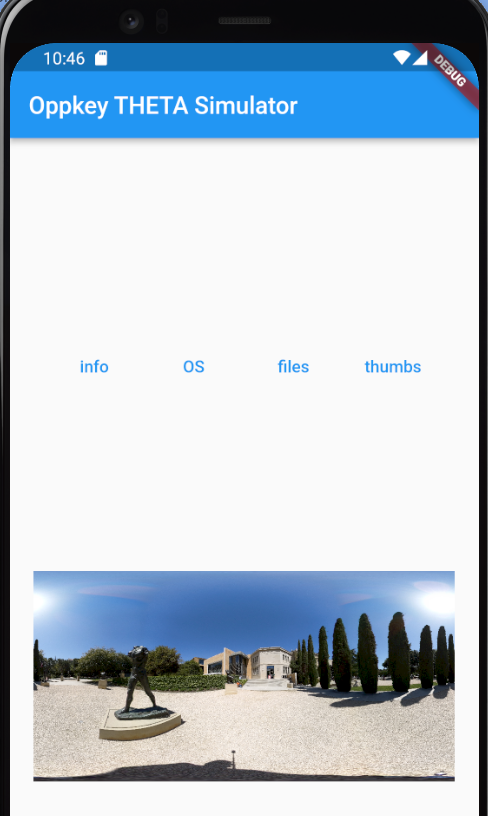
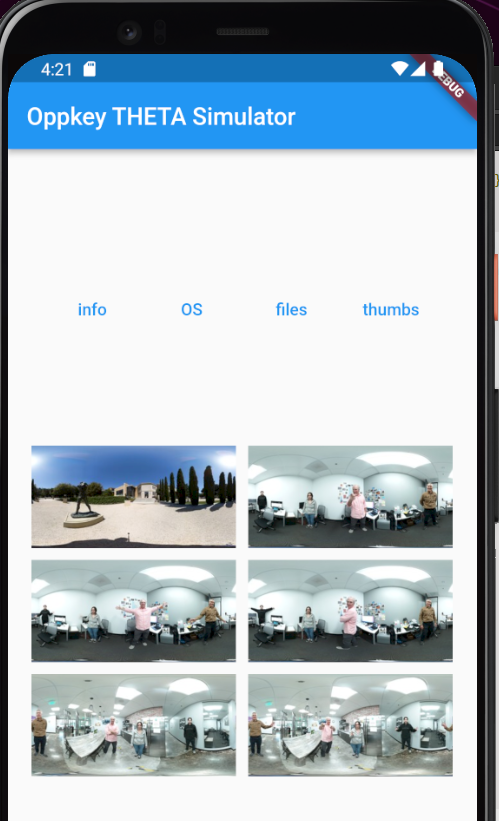
updated thumb demo

diff --git a/lib/main.dart b/lib/main.dart
@@ -54,7 +54,7 @@ class _MiniAppState extends State<MiniApp> {
         mainAxisAlignment: MainAxisAlignment.start,
         children: [
           Expanded(
-            flex: 4,
+            flex: 2,
             child: Row(
               mainAxisAlignment: MainAxisAlignment.spaceEvenly,
               children: [
@@ -124,7 +124,7 @@ class _MiniAppState extends State<MiniApp> {
                       'parameters': {
                         'fileType': 'image',
                         'startPosition': 0,
-                        'entryCount': 1,
+                        'entryCount': 6,
                         'maxThumbSize': 0,
                         '_detail': true,
                       }
@@ -133,14 +133,36 @@ class _MiniAppState extends State<MiniApp> {
                     var response = await http.post(url,
                         headers: {'Content-Type': 'application/json'},
                         body: bodyJson);
-                    var imageUrl = jsonDecode(response.body)['results']
-                        ['entries'][0]['fileUrl'];
+                    final imageEntries =
+                        jsonDecode(response.body)['results']['entries'];
+                    var listOfThumbUrls = [];
+                    for (var entry in imageEntries) {
+                      // listOfImageUrls.add(entry['fileUrl']);
+                      var imageLocation = entry['fileUrl'];
+                      // final splitUrl = imageUrl.split('/');
+                      var imageUrl = Uri.parse(imageLocation);
+                      final imagePath = imageUrl.path;
+                      final imagePathList = imagePath.split('/');
+                      final filename = imagePathList.last;
+                      final thumbUrl =
+                          'https://codetricity.github.io/fake-storage/files/100RICOH/thumb/$filename';
+                      listOfThumbUrls.add(thumbUrl);
+                    }
+                    print(listOfThumbUrls);
 
                     setState(() {
-                      displayWidget = SingleChildScrollView(
-                        // child: Text(imageUrl.toString()),
-                        child: Image.network(imageUrl),
-                      );
+                      displayWidget = GridView.builder(
+                          itemCount: listOfThumbUrls.length,
+                          gridDelegate:
+                              const SliverGridDelegateWithMaxCrossAxisExtent(
+                                  maxCrossAxisExtent: 200,
+                                  childAspectRatio: 4 / 2,
+                                  crossAxisSpacing: 10,
+                                  mainAxisSpacing: 10),
+                          itemBuilder: (BuildContext context, index) {
+                            return Image.network(listOfThumbUrls[index]);
+                          });
+                      // child: Image.network(thumbUrl),
                     });
                   },
                   child: const Text('thumbs'),
